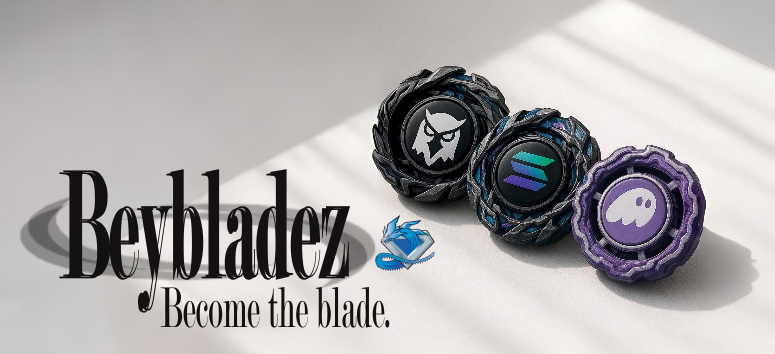
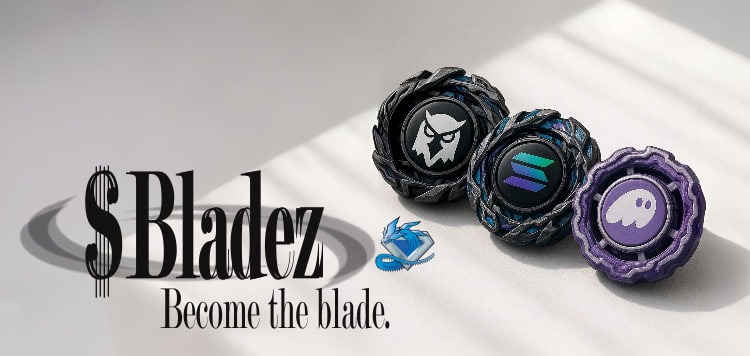
bladez

diff --git a/src/pages/Gallery.tsx b/src/pages/Gallery.tsx
@@ -171,10 +171,10 @@ const Gallery = () => {
         <div className="max-w-6xl mx-auto">
           <div className="text-center mb-12">
             <h2 className="text-4xl font-bold mb-4 bg-gradient-to-r from-blue-400 to-purple-400 bg-clip-text text-transparent mb-5">
-              Generated beybladez Gallery
+              Generated $bladez Gallery
             </h2>
             <p className="text-gray-300 text-lg">
-              Explore all the amazing beybladez created by our community
+              Explore all the amazing $bladez created by our community
             </p>
           </div>
 
@@ -183,13 +183,13 @@ const Gallery = () => {
               <div className="text-gray-400 mb-6">
                 <div className="text-6xl mb-4">🎨</div>
                 <h3 className="text-xl font-semibold mb-2">No images generated yet</h3>
-                <p className="text-gray-500">Start creating your first beybladez!</p>
+                <p className="text-gray-500">Start creating your first $bladez!</p>
               </div>
               <Button
                 onClick={() => navigate('/generator')}
                 className="bg-gradient-to-r from-purple-600 to-pink-600 hover:from-purple-700 hover:to-pink-700 text-white border-0 px-8 py-3"
               >
-                Create Your <strong>beybladez</strong>
+                Create Your <strong>$bladez</strong>
               </Button>
             </Card>
           ) : (
@@ -199,7 +199,7 @@ const Gallery = () => {
                   <div className="aspect-square rounded-lg overflow-hidden mb-4 bg-white">
                     <img
                       src={image.url}
-                      alt={`Generated beybladez ${image.id}`}
+                      alt={`Generated $bladez ${image.id}`}
                       className="w-full h-full object-cover group-hover:scale-105 transition-transform duration-300"
                     />
                   </div>

diff --git a/src/pages/Generator.tsx b/src/pages/Generator.tsx
@@ -225,7 +225,7 @@ Do not mention or specify colors; instead, interpret the images mood and energy 
 
           {/* Center: Title */}
           <div className="flex-1 flex justify-center">
-            <h1 className="text-2xl font-bold">beybladez Generator</h1>
+            <h1 className="text-2xl font-bold">$bladez Generator</h1>
           </div>
 
           {/* Right: Desktop Navigation */}
@@ -325,10 +325,10 @@ Do not mention or specify colors; instead, interpret the images mood and energy 
         <div className="max-w-4xl mx-auto">
           <div className="text-center mb-12">
             <h2 style={{lineHeight: "1.5"}} className="text-6xl font-bold mb-4 bg-gradient-to-r from-blue-400 to-purple-400 bg-clip-text text-transparent">
-              Create Your $beybladez
+              Create Your $bladez
             </h2>
             <p className="text-gray-300 text-lg font-semibold">
-              Upload any image and transform it into your personalized beybladez <br />
+              Upload any image and transform it into your personalized $bladez <br />
               <br />
             </p>
           </div>

diff --git a/src/pages/Index.tsx b/src/pages/Index.tsx
@@ -42,7 +42,7 @@ const Index = () => {
       {/* Header */}
       <header className="p-4 md:p-6 animate-fade-in" style={{ animationDelay: '0.2s' }}>
         <div className="container mx-auto flex justify-between items-center">
-          <h1 className="text-xl md:text-2xl font-bold text-silver-400">$beybladez</h1>
+          <h1 className="text-xl md:text-2xl font-bold text-silver-400">$bladez</h1>
           
           {/* Mobile Menu Button */}
           <Button
@@ -146,7 +146,7 @@ const Index = () => {
         <div className="max-w-4xl mx-auto flex flex-col gap-4">
           <div className="flex flex-col animate-fade-in" style={{ animationDelay: '0.4s' }}>
             <h1 style={{ color: 'transparent', backgroundClip: 'text', backgroundImage: 'linear-gradient(to right, #218bff, #c084fc, #db2777)', lineHeight: '140%' }} className="text-5xl md:text-7xl lg:text-8xl font-bold title-animate">
-              $beybladez
+              $bladez
             </h1>
             <p className="text-lg md:text-xl lg:text-2xl text-gray-400 mb-8 md:mb-12 leading-relaxed">
               Let it rip!

diff --git a/src/components/GeneratedImage.tsx b/src/components/GeneratedImage.tsx
@@ -100,7 +100,7 @@ const GeneratedImage = ({ imageUrl, isGenerating }: GeneratedImageProps) => {
       <Card className="bg-gray-800/50 border-gray-600 p-8 text-center">
         <div className="text-gray-400">
           <div className="text-4xl mb-4">🎯</div>
-          <p className="text-gray-400">Your personalized <strong>beybladez</strong> will appear here</p>
+          <p className="text-gray-400">Your personalized <strong>bladez</strong> will appear here</p>
         </div>
       </Card>
     );
@@ -112,7 +112,7 @@ const GeneratedImage = ({ imageUrl, isGenerating }: GeneratedImageProps) => {
         <div className="aspect-square rounded-lg overflow-hidden bg-white">
           <img 
             src={imageUrl} 
-            alt="Generated beybladez" 
+            alt="Generated $bladez" 
             className="w-full h-full object-cover"
           />
         </div>

diff --git a/index.html b/index.html
@@ -3,12 +3,12 @@
   <head>
     <meta charset="UTF-8" />
     <meta name="viewport" content="width=device-width, initial-scale=1.0" />
-    <title>$beybladez</title>
-    <meta name="description" content="Our childhood $beybladez. Let it rip." />
+    <title>$bladez</title>
+    <meta name="description" content="Our childhood $bladez. Let it rip." />
     <meta name="author" content="project" />
 
-    <meta property="og:title" content="$beybladez" />
-    <meta property="og:description" content="Our childhood $beybladez. Let it rip." />
+    <meta property="og:title" content="$bladez" />
+    <meta property="og:description" content="Our childhood $bladez. Let it rip." />
     <meta property="og:type" content="website" />
     <meta property="og:image" content="https://beybladezz.com/beybladezcard.png" />
 

diff --git a/src/pages/Beyblade.tsx b/src/pages/Beyblade.tsx
@@ -143,7 +143,7 @@ const BeybladeGame: React.FC<BeybladeGameProps> = ({
 
                     {/* Centered title */}
                     <div className="flex justify-center">
-                        <h1 className="text-2xl text-center">$beyblade | <strong>Let it rip.</strong> | BattleBlade</h1>
+                        <h1 className="text-2xl text-center">$bladez | <strong>Let it rip.</strong> | BattleBlade</h1>
                     </div>
 
                     {/* Mobile Menu Button */}
